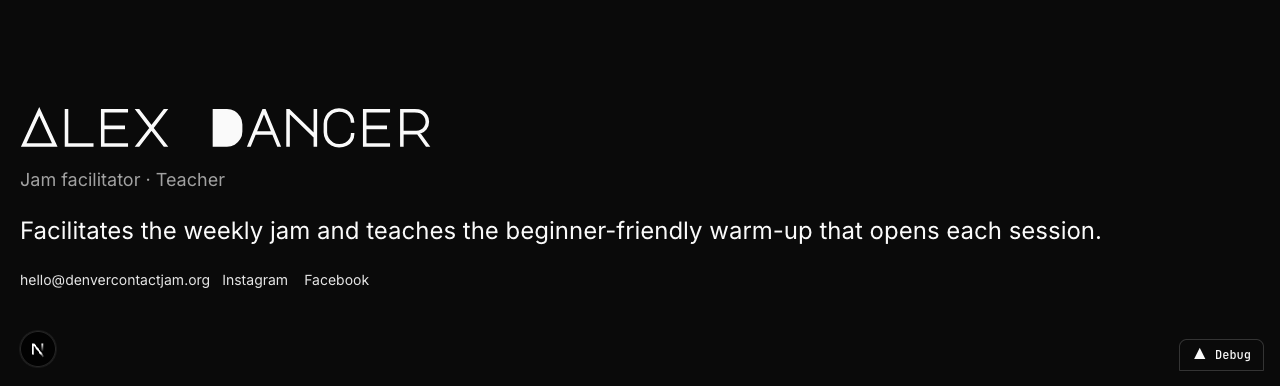
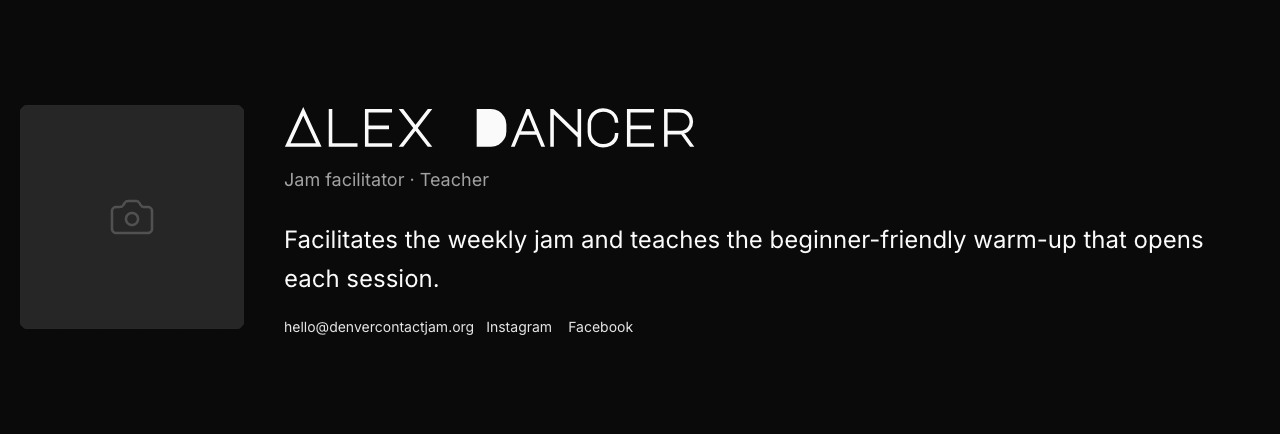
Show portrait image slot in teamMemberBlock gallery fixture
The component always rendered member.image; the gallery fixture just never
provided one, so the block previewed text-only. Also fix the preview capture
script for heading-id/anchor collisions (.first()) and refresh thumbnails.

Changed region(s): [[0.0, 0.2176, 0.9375, 0.7772], [0.375, 0.2487, 0.5625, 0.342], [0.9062, 0.9016, 1.0, 0.9326]]

diff --git a/app/(site)/design/sections/fixtures.ts b/app/(site)/design/sections/fixtures.ts
@@ -90,6 +90,7 @@ export const fixtureMember: TeamMemberData = {
   _id: 'member-1',
   title: 'Alex Dancer',
   slug: 'alex-dancer',
+  image: fixtureImage,
   primaryJobTitle: 'Jam facilitator',
   secondaryJobTitle: 'Teacher',
   email: 'hello@denvercontactjam.org',
